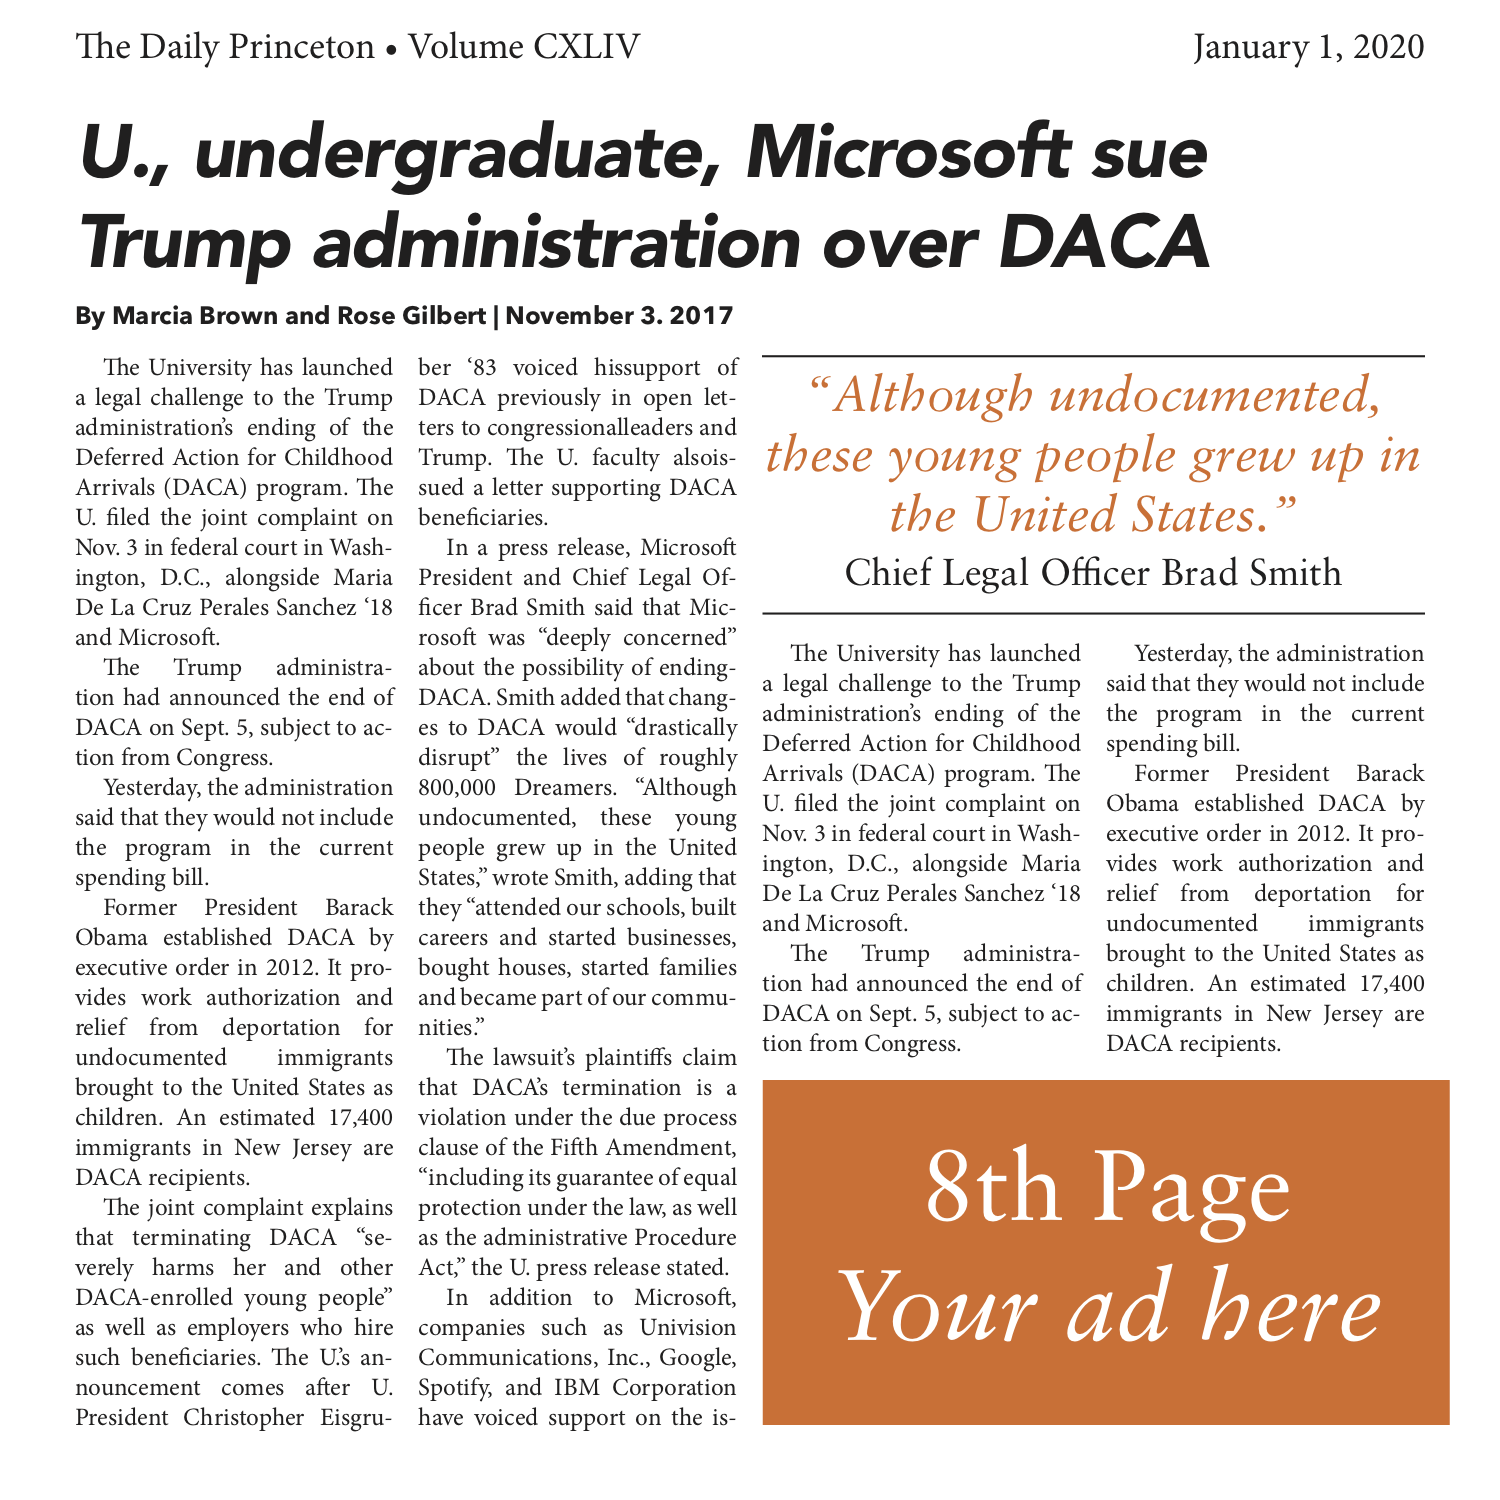
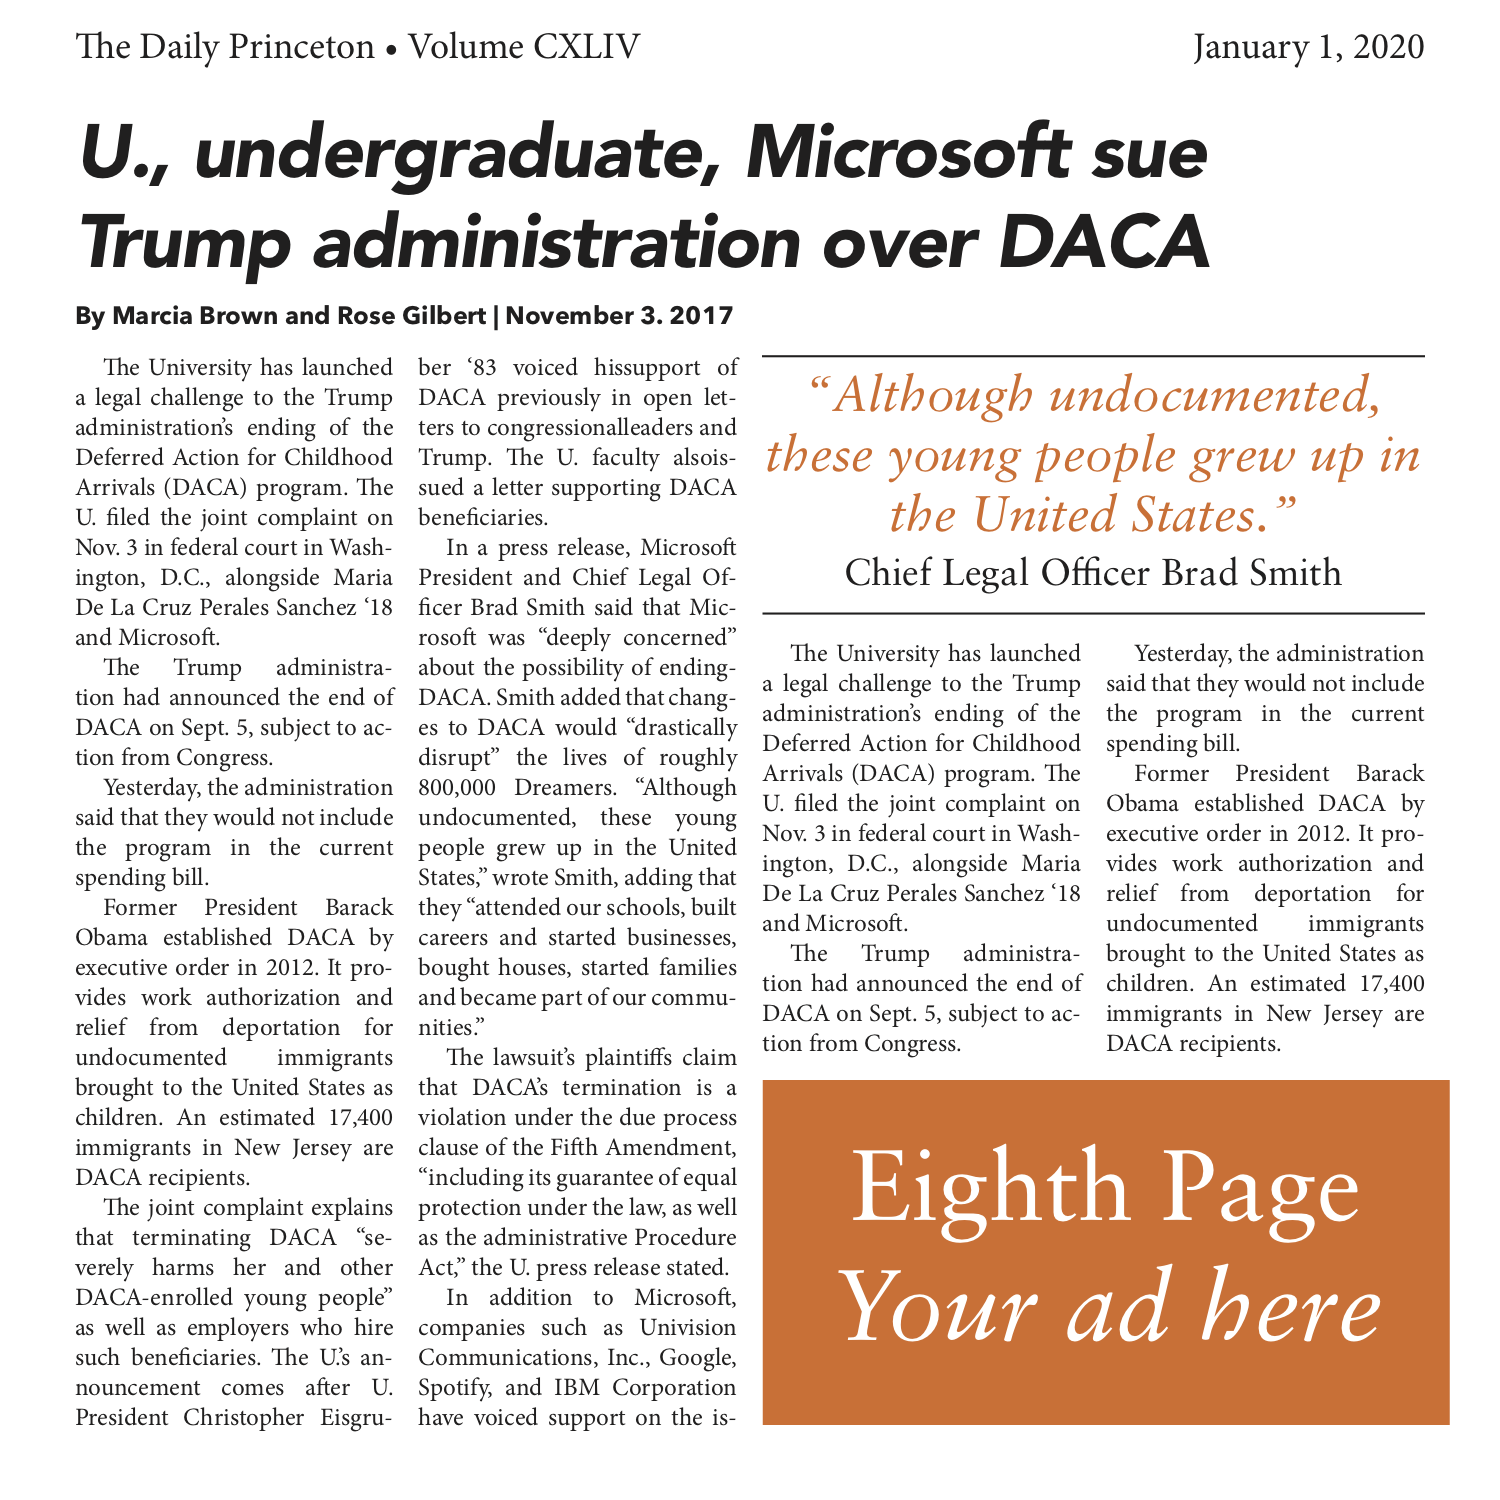
Un-superscript the 8 and reorganize advertising deals.

Changed region(s): [[0.552, 0.7667, 0.92, 0.828]]

diff --git a/FallIssue.js b/FallIssue.js
@@ -70,7 +70,7 @@ fallBtnCampus.onclick = function() {
         <div class="fall--option">
             <div class="fall--option--container">
                 <img src="FallPrint/Eighth.png">
-                <p>8<sup>th</sup> Page*<br>$190</p>
+                <p>Eighth Page*<br>$190</p>
             </div>
         </div>
         <div class="fall--option fall--option--truck" style="margin: 0;">
@@ -113,12 +113,12 @@ fallBtnCampus.onclick = function() {
     fallDealDiv.innerHTML = `
     <h3>Advertising Deals:</h3>
     <ul>
-        <li>$1500 = complementary qtr. page ad</li>
-        <li>$2100 = full page ad in all three issues (27% discount)</li>
-        <li>$2500 = complementary half page ad</li>
-        <li>$3500 = complementary full page ad</li>
-        <li>$10000 = Lead Sponsor for three issues (26% discount)</li>
-
+        <li>Full page ad in all three issues: $2100 (27% discount)</li>
+        <li>Lead Sponsor for three issues: $10000 (26% discount)</li>
+        <br>
+        <li>Purchase $1500+ and receive an additional qtr. page ad</li>
+        <li>Purchase $2500+ and receive an additional half page ad</li>
+        <li>Purchase $3500+ and receive an additional full page ad</li>
     </ul>`;
 };
 
@@ -156,7 +156,7 @@ fallBtnGeneral.onclick = function() {
         <div class="fall--option">
             <div class="fall--option--container">
                 <img src="FallPrint/Eighth.png">
-                <p>8<sup>th</sup> Page*<br>$310</p>
+                <p>Eighth Page*<br>$310</p>
             </div>
         </div>
         <div class="fall--option fall--option--truck" style="margin: 0;">
@@ -199,11 +199,11 @@ fallBtnGeneral.onclick = function() {
     fallDealDiv.innerHTML = `
     <h3>Advertising Deals:</h3>
     <ul>
-        <li>$2900 = complementary qtr. page ad</li>
-        <li>$3460 = full page ad in all three issues (27% discount)</li>
-        <li>$4000 = complementary half page ad</li>
-        <li>$5500 = complementary full page ad</li>
-        <li>$14400 = Lead Sponsor for three issues (26% discount)</li>
-
+        <li>Full page ad in all three issues: $3460 (27% discount)</li>
+        <li>Lead Sponsor for three issues: $14400 (26% discount)</li>
+        <br>
+        <li>Purchase $2900+ and receive an additional qtr. page ad</li>
+        <li>Purchase $4000+ and receive an additional half page ad</li>
+        <li>Purchase $5500+ and receive an additional full page ad</li>
     </ul>`;
 };

diff --git a/index.html b/index.html
@@ -1759,7 +1759,7 @@
             <div class="fall--option">
                 <div class="fall--option--container">
                     <img src="FallPrint/Eighth.png">
-                    <p>8<sup>th</sup> Page*<br>$190</p>
+                    <p>Eighth Page*<br>$190</p>
                 </div>
             </div>
             <div class="fall--option fall--option--truck" style="margin: 0;">
@@ -1773,7 +1773,7 @@
     </div>
     <div class="fall--asterisks">
         <p>
-            * Half and 8<sup>th</sup> page ads are available in vertical and horizontal orientation.
+            * Half and eighth page ads are available in vertical and horizontal orientation.
             <br>
             ** Double-Truck is only available for the Lead Advertiser; contact for further details.
         </p>
@@ -1782,12 +1782,12 @@
         <div class="fall--special--deals">
             <h3>Advertising Deals:</h3>
             <ul>
-                <li>$1500 = complementary qtr. page ad</li>
-                <li>$2100 = full page ad in all three issues (27% discount)</li>
-                <li>$2500 = complementary half page ad</li>
-                <li>$3500 = complementary full page ad</li>
-                <li>$10000 = Lead Sponsor for three issues (26% discount)</li>
-
+                <li>Full page ad in all three issues: $2100 (27% discount)</li>
+                <li>Lead Sponsor for three issues: $10000 (26% discount)</li>
+                <br>
+                <li>Purchase $1500+ and receive an additional qtr. page ad</li>
+                <li>Purchase $2500+ and receive an additional half page ad</li>
+                <li>Purchase $3500+ and receive an additional full page ad</li>
             </ul>
         </div>
         <div class="fall--special--ops">
